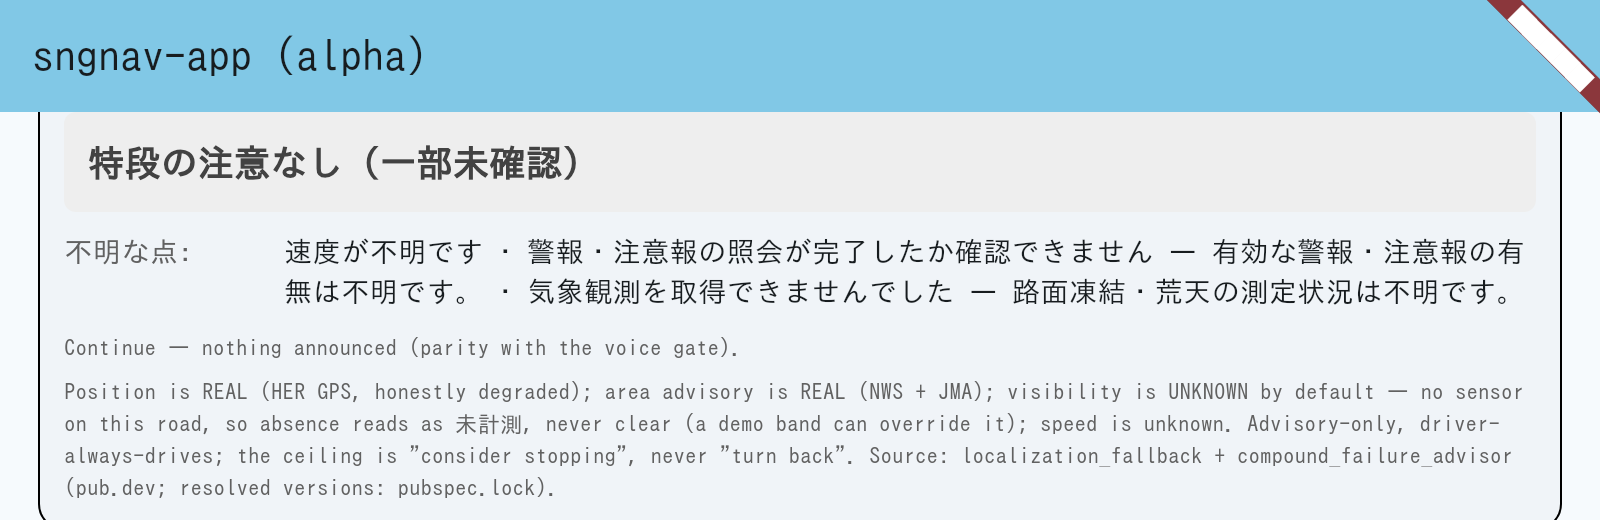
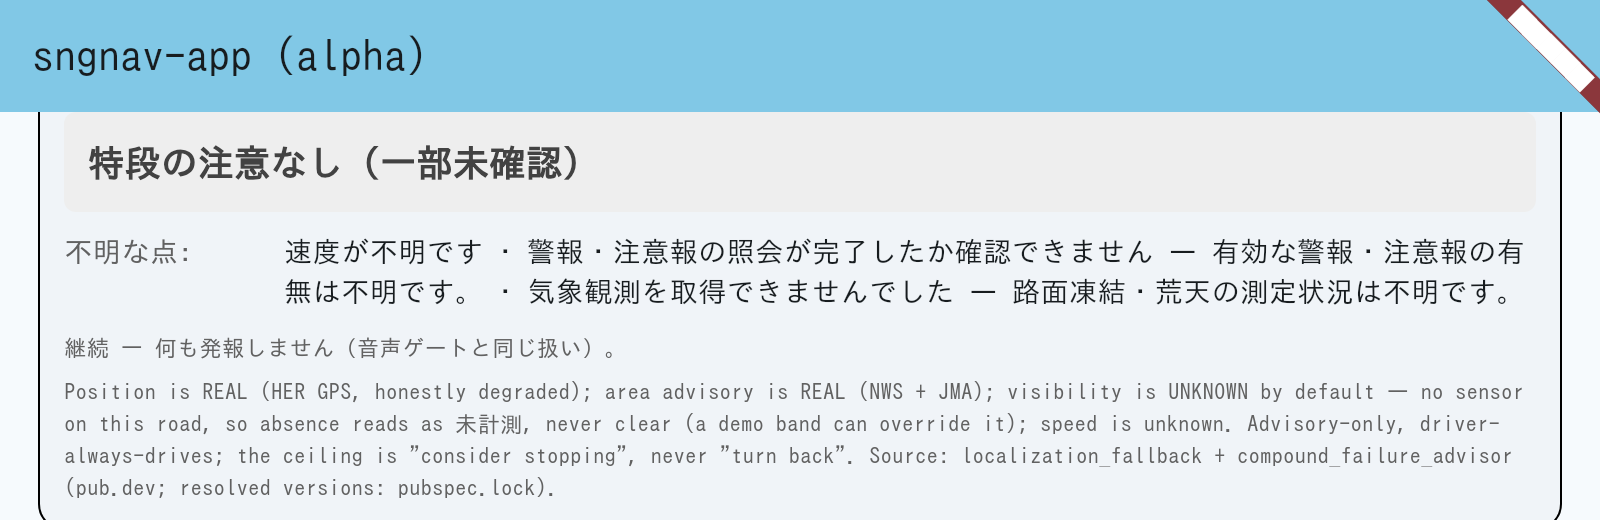
The live-drive card's description, visibility demo label and bands, blackout button and counter, and announce line follow the app's locale; its title and footer stay as they are
Measured 2026-09-14: the description, the blackout button and counter and the
announce line were English in Japanese mode, and the visibility demo label and
bands Japanese in English mode. Each side keeps its bytes; the other side is new
and unreviewed on a render. The Japanese announce lines reuse the app's own
announce-helper words (音声＋振動で…発報, 端末での聴取・体感は本環境では未検証です,
音声ゲートと同じ扱い).

Not changed: the card's title and its footer. The instrument that looks at her
map finds this card by its English title, and compares what the card says about
stopping between a Japanese run and an English run; a Japanese footer would
make that comparison differ in Japanese. They wait for that instrument.

Three Japanese drive-HUD goldens are re-cut after looking at each new image:
02 and 03 differ in the announce line and the footer's position under it, 13 in
the description line only. The English refusal-strings test taps the English
band label, which was Japanese until now.

Changed region(s): [[0.0312, 0.6462, 0.4688, 0.7077]]

diff --git a/lib/main.dart b/lib/main.dart
@@ -1814,14 +1814,9 @@ class _HomePageState extends State<HomePage> {
   }
 
   // Visibility bands for the mocked in-drive control. metres, or null =
-  // "no reading" (a first-class unknown).
-  static const List<(String, double?)> _visibilityBands = [
-    ('— 上書きなし：ライブ／未計測（既定）—', null),
-    ('クリア ~1.5 km', 1500),
-    ('視界低下 ~700 m', 700),
-    ('視界不良 ~300 m', 300),
-    ('ホワイトアウト ~80 m', 80),
-  ];
+  // "no reading" (a first-class unknown). Labels follow the app's locale
+  // (AppL10n.driveHudVisibilityBand); they were Japanese on every device.
+  static const List<double?> _visibilityBands = [null, 1500, 700, 300, 80];
 
   /// The unknowns the app owns because the drive brain has no channel for
   /// them — an unprovable advisory lookup, and an unread/failed weather feed.
@@ -2003,27 +1998,29 @@ class _HomePageState extends State<HomePage> {
           const SizedBox(height: 8),
         ],
         Text(
-          'Fuses HER honest position (localization_fallback: GPS → dead '
-          'reckoning → lost, never a confident wrong dot) with visibility + the '
-          'real area advisory (compound_failure_advisor). The MOMENT the caution '
-          'rung RISES it auto-announces on the SAME audio + haptic channel as '
-          'WS5 — no manual button. Share a location above, then lower the '
-          'visibility band and/or simulate a GPS blackout to see it rise.',
+          key: const Key('drive-hud-description'),
+          l.driveHudDescription,
           style: TextStyle(color: Colors.grey.shade700, fontSize: 12),
         ),
         const SizedBox(height: 10),
         // Demo OVERRIDE for the visibility band. Default (null) = live/unknown;
         // the road has no visibility sensor, so absence reads as 未計測, never clear.
-        const Text('視程デモ上書き（既定：ライブ／未計測 — 合成クリアなし）',
-            style: TextStyle(fontSize: 12, fontWeight: FontWeight.w600)),
+        Text(
+          key: const Key('drive-hud-visibility-label'),
+          l.driveHudVisibilityOverrideLabel,
+          style: const TextStyle(fontSize: 12, fontWeight: FontWeight.w600),
+        ),
         DropdownButton<double?>(
           key: const Key('drive-hud-visibility'),
           value: _mockVisibilityMeters,
           isExpanded: true,
           onChanged: _onVisibilityChanged,
           items: [
-            for (final (label, meters) in _visibilityBands)
-              DropdownMenuItem<double?>(value: meters, child: Text(label)),
+            for (final meters in _visibilityBands)
+              DropdownMenuItem<double?>(
+                value: meters,
+                child: Text(l.driveHudVisibilityBand(meters)),
+              ),
           ],
         ),
         const SizedBox(height: 8),
@@ -2039,10 +2036,12 @@ class _HomePageState extends State<HomePage> {
               key: const Key('drive-hud-blackout-button'),
               onPressed: hasBaseline ? _simulateGpsBlackout : null,
               icon: const Icon(Icons.gps_off),
-              label: const Text('Simulate GPS blackout (+60 s)'),
+              label: Text(l.driveHudSimulateBlackout),
             ),
             if (_blackoutSeconds > 0)
-              Text('blackout: ${_blackoutSeconds}s',
+              Text(
+                  key: const Key('drive-hud-blackout-seconds'),
+                  l.driveHudBlackoutSeconds(_blackoutSeconds),
                   style: TextStyle(
                       fontSize: 12, color: Colors.orange.shade900)),
           ],
@@ -2159,19 +2158,14 @@ class _HomePageState extends State<HomePage> {
           // but NOT spoken by this lane — the watch lane speaks the specific
           // hazard — so it must not falsely claim it auto-fired (OPS-068).
           Text(
+            key: const Key('drive-hud-announce-status'),
             switch (effective ?? advice.action) {
-              DriveAction.considerStopping =>
-                'Auto-fires audio + haptic (critical) on rung rise. '
-                    'On-device HEAR/FEEL not verified in this env.',
+              DriveAction.considerStopping => l.driveHudAnnounceCritical,
               DriveAction.heightenedCaution =>
                 _driveHud.effectiveRungIsSpokenByRung
-                    ? 'Auto-fires audio + haptic (warning) on rung rise. '
-                        'On-device HEAR/FEEL not verified in this env.'
-                    : 'Raised to caution (shown + coloured). The specific '
-                        'hazard line is spoken on its own measured-watch lane; '
-                        'this rung does not double-speak it.',
-              DriveAction.continueDriving =>
-                'Continue — nothing announced (parity with the voice gate).',
+                    ? l.driveHudAnnounceWarning
+                    : l.driveHudAnnounceRaisedNotSpoken,
+              DriveAction.continueDriving => l.driveHudAnnounceContinue,
             },
             style: TextStyle(color: Colors.grey.shade700, fontSize: 11),
           ),

diff --git a/lib/l10n/app_localizations.dart b/lib/l10n/app_localizations.dart
@@ -323,6 +323,74 @@ class AppL10n {
       ? 'この曲がり角の案内は保留しています（現在地が信頼できません）。'
       : 'Guidance for this turn is on hold (your position is not trusted).';
 
+  // The live-drive card's description, demo controls and announce line. Until
+  // 2026-09-14 the description, the blackout button and counter, and the
+  // announce line were English in Japanese mode, and the visibility demo label
+  // and bands Japanese in English mode. Each side keeps its bytes; the other
+  // side is new and not yet reviewed on a render. The card's title and footer
+  // are not here: they stay as they are while the instrument that looks at her
+  // map finds the card by its title and reads the footer.
+
+  /// What the card does, above its demo controls.
+  String get driveHudDescription => _ja
+      ? '正直な現在地（localization_fallback：GPS → 推測航法 → 現在地 不明。自信のある誤った点は出しません）を、視界と実際の地域の警報・注意報（compound_failure_advisor）と組み合わせます。注意の段階が上がった瞬間に、WS5 と同じ音声＋振動で自動的に知らせます（手動のボタンは不要です）。上で位置を共有し、視界の段階を下げるか GPS 途絶を再現すると、段階が上がるのを確かめられます。'
+      : 'Fuses HER honest position (localization_fallback: GPS → dead '
+          'reckoning → lost, never a confident wrong dot) with visibility + the '
+          'real area advisory (compound_failure_advisor). The MOMENT the caution '
+          'rung RISES it auto-announces on the SAME audio + haptic channel as '
+          'WS5 — no manual button. Share a location above, then lower the '
+          'visibility band and/or simulate a GPS blackout to see it rise.';
+
+  /// The label over the visibility demo override.
+  String get driveHudVisibilityOverrideLabel => _ja
+      ? '視程デモ上書き（既定：ライブ／未計測 — 合成クリアなし）'
+      : 'Visibility demo override (default: live / not measured — no synthetic clear)';
+
+  /// One band of the visibility demo override, by its metres; null is no
+  /// override.
+  String driveHudVisibilityBand(double? meters) => switch (meters) {
+        null => _ja
+            ? '— 上書きなし：ライブ／未計測（既定）—'
+            : '— No override: live / not measured (default) —',
+        1500.0 => _ja ? 'クリア ~1.5 km' : 'Clear ~1.5 km',
+        700.0 => _ja ? '視界低下 ~700 m' : 'Reduced visibility ~700 m',
+        300.0 => _ja ? '視界不良 ~300 m' : 'Poor visibility ~300 m',
+        80.0 => _ja ? 'ホワイトアウト ~80 m' : 'Whiteout ~80 m',
+        final double m => '~${m.toStringAsFixed(0)} m',
+      };
+
+  /// The demo button that advances a GPS blackout by 60 s.
+  String get driveHudSimulateBlackout =>
+      _ja ? 'GPS 途絶を再現（+60 秒）' : 'Simulate GPS blackout (+60 s)';
+
+  /// How far the demo blackout has been advanced.
+  String driveHudBlackoutSeconds(int seconds) =>
+      _ja ? 'GPS 途絶: $seconds 秒' : 'blackout: ${seconds}s';
+
+  /// Announce line: the top rung auto-fires.
+  String get driveHudAnnounceCritical => _ja
+      ? '段階が上がると音声＋振動で自動発報します（重要度: critical）。端末での聴取・体感は本環境では未検証です。'
+      : 'Auto-fires audio + haptic (critical) on rung rise. '
+          'On-device HEAR/FEEL not verified in this env.';
+
+  /// Announce line: the middle rung auto-fires on this lane.
+  String get driveHudAnnounceWarning => _ja
+      ? '段階が上がると音声＋振動で自動発報します（重要度: warning）。端末での聴取・体感は本環境では未検証です。'
+      : 'Auto-fires audio + haptic (warning) on rung rise. '
+          'On-device HEAR/FEEL not verified in this env.';
+
+  /// Announce line: raised and shown, spoken on its own measured-watch lane.
+  String get driveHudAnnounceRaisedNotSpoken => _ja
+      ? '注意に上げました（表示と色のみ）。個別の危険の文言は実測ウォッチの経路で読み上げ、この段階では重ねて読み上げません。'
+      : 'Raised to caution (shown + coloured). The specific '
+          'hazard line is spoken on its own measured-watch lane; '
+          'this rung does not double-speak it.';
+
+  /// Announce line: nothing is announced.
+  String get driveHudAnnounceContinue => _ja
+      ? '継続 — 何も発報しません（音声ゲートと同じ扱い）。'
+      : 'Continue — nothing announced (parity with the voice gate).';
+
   /// Note in the caution banner when hazards compound.
   String get driveHudCompoundingNote => _ja
       ? '⚠ 危険が重なっています（現在地不確か＋視界不良）'

diff --git a/test/widgets/live_drive_card_locale_test.dart b/test/widgets/live_drive_card_locale_test.dart
@@ -1,0 +1,112 @@
+/// The live-drive card's description, demo controls and announce line follow
+/// the app's locale.
+///
+/// Why this test exists. Measured 2026-09-14: the card's description, its
+/// blackout button and counter, and its announce line were English literals in
+/// Japanese mode, and its visibility demo label and bands were Japanese
+/// literals in English mode. English keeps its bytes, and the Japanese label
+/// and bands keep theirs. The new sentences are unruled candidates for a look
+/// on a render.
+///
+/// Not changed, and not asserted: the card's title and its footer. The
+/// instrument that looks at her map finds this card by its English title, and
+/// compares what the card says about stopping across a Japanese and an English
+/// run, which the footer's "consider stopping" would break in Japanese. Both
+/// stay until that instrument no longer keys on them.
+library;
+
+import 'package:flutter/material.dart';
+import 'package:flutter_test/flutter_test.dart';
+import 'package:sngnav_app/jma_fetch.dart';
+import 'package:sngnav_app/main.dart' show SngnavApp;
+
+import '../support/fake_alert_actuators.dart';
+
+final _cjk = RegExp(r'[぀-ヿ㐀-鿿＀-￯]');
+
+Future<void> _boot(WidgetTester tester, String lang) async {
+  await tester.pumpWidget(const SizedBox.shrink());
+  await tester.pump();
+  await tester.pumpWidget(SngnavApp(
+    actuators: FakeAlertActuators(),
+    locale: Locale(lang),
+    clock: () => DateTime.utc(2026, 1, 14, 21),
+    jmaFetch: () async => const JmaFailure('no network in this test'),
+  ));
+  await tester.pump();
+  await tester.pump();
+}
+
+Future<void> _useMock(WidgetTester tester) async {
+  final b = find.byKey(const Key('use-mock-button'));
+  await tester.ensureVisible(b);
+  await tester.pump();
+  await tester.tap(b);
+  await tester.pump();
+  await tester.pump();
+}
+
+Future<void> _blackout(WidgetTester tester) async {
+  final b = find.byKey(const Key('drive-hud-blackout-button'));
+  await tester.ensureVisible(b);
+  await tester.pump();
+  await tester.tap(b);
+  await tester.pump();
+  await tester.pump();
+}
+
+String _textOf(WidgetTester tester, Key key) =>
+    tester.widget<Text>(find.byKey(key)).data ?? '';
+
+const _englishLiterals = [
+  'Fuses HER honest position',
+  'Simulate GPS blackout',
+  'blackout: ',
+  'Auto-fires audio + haptic',
+  'Raised to caution (shown + coloured)',
+  'Continue — nothing announced',
+];
+
+void main() {
+  testWidgets('Japanese: no English literal left in these parts of the card',
+      (tester) async {
+    await _boot(tester, 'ja');
+    await _useMock(tester);
+    await _blackout(tester);
+    for (final english in _englishLiterals) {
+      expect(find.textContaining(english), findsNothing, reason: english);
+    }
+    for (final key in const [
+      Key('drive-hud-description'),
+      Key('drive-hud-announce-status'),
+      Key('drive-hud-blackout-seconds'),
+    ]) {
+      expect(find.byKey(key), findsOneWidget, reason: '$key');
+      expect(_cjk.hasMatch(_textOf(tester, key)), isTrue,
+          reason: '$key: 「${_textOf(tester, key)}」');
+    }
+    final button = find.byKey(const Key('drive-hud-blackout-button'));
+    expect(
+        find.descendant(of: button, matching: find.textContaining(_cjk)),
+        findsOneWidget,
+        reason: 'the blackout button reads Japanese');
+  });
+
+  testWidgets('English: no Japanese in the demo label and bands, and the '
+      'English parts keep their bytes', (tester) async {
+    await _boot(tester, 'en');
+    await _useMock(tester);
+    await _blackout(tester);
+    expect(find.textContaining('視程デモ上書き'), findsNothing);
+    expect(find.textContaining('上書きなし'), findsNothing);
+    final label = _textOf(tester, const Key('drive-hud-visibility-label'));
+    expect(_cjk.hasMatch(label), isFalse, reason: label);
+    expect(find.textContaining('Fuses HER honest position'), findsOneWidget);
+    expect(
+        find.descendant(
+            of: find.byKey(const Key('drive-hud-blackout-button')),
+            matching: find.text('Simulate GPS blackout (+60 s)')),
+        findsOneWidget);
+    expect(find.text('blackout: 60s'), findsOneWidget);
+  });
+}

diff --git a/test/l10n/speed_hint_and_refusal_line_strings_test.dart b/test/l10n/speed_hint_and_refusal_line_strings_test.dart
@@ -109,7 +109,9 @@ void main() {
       await tester.pump();
       await tester.tap(band);
       await tester.pumpAndSettle();
-      await tester.tap(find.text('ホワイトアウト ~80 m').last);
+      // English band label since 2026-09-14; the bands were Japanese on
+      // every device until then.
+      await tester.tap(find.text('Whiteout ~80 m').last);
       await tester.pumpAndSettle();
 
       final label = find.text('Speed hint:');
